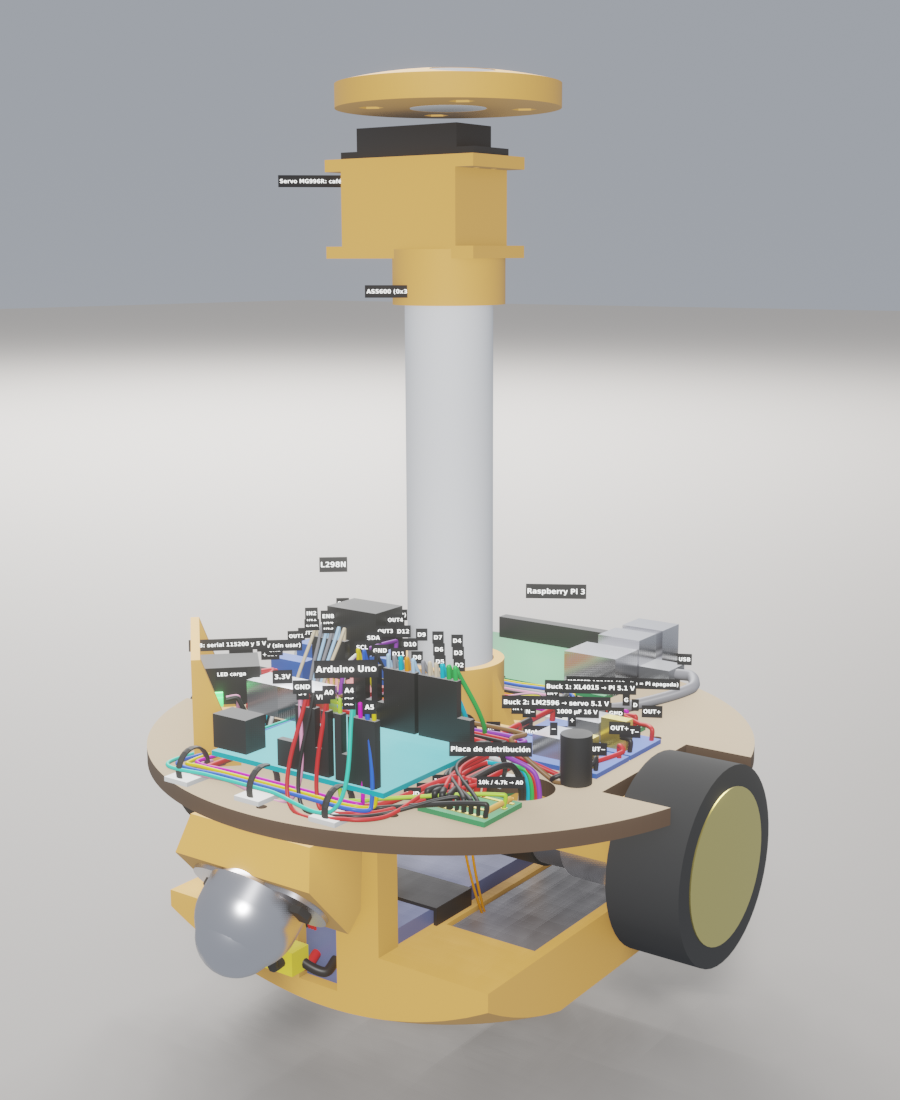
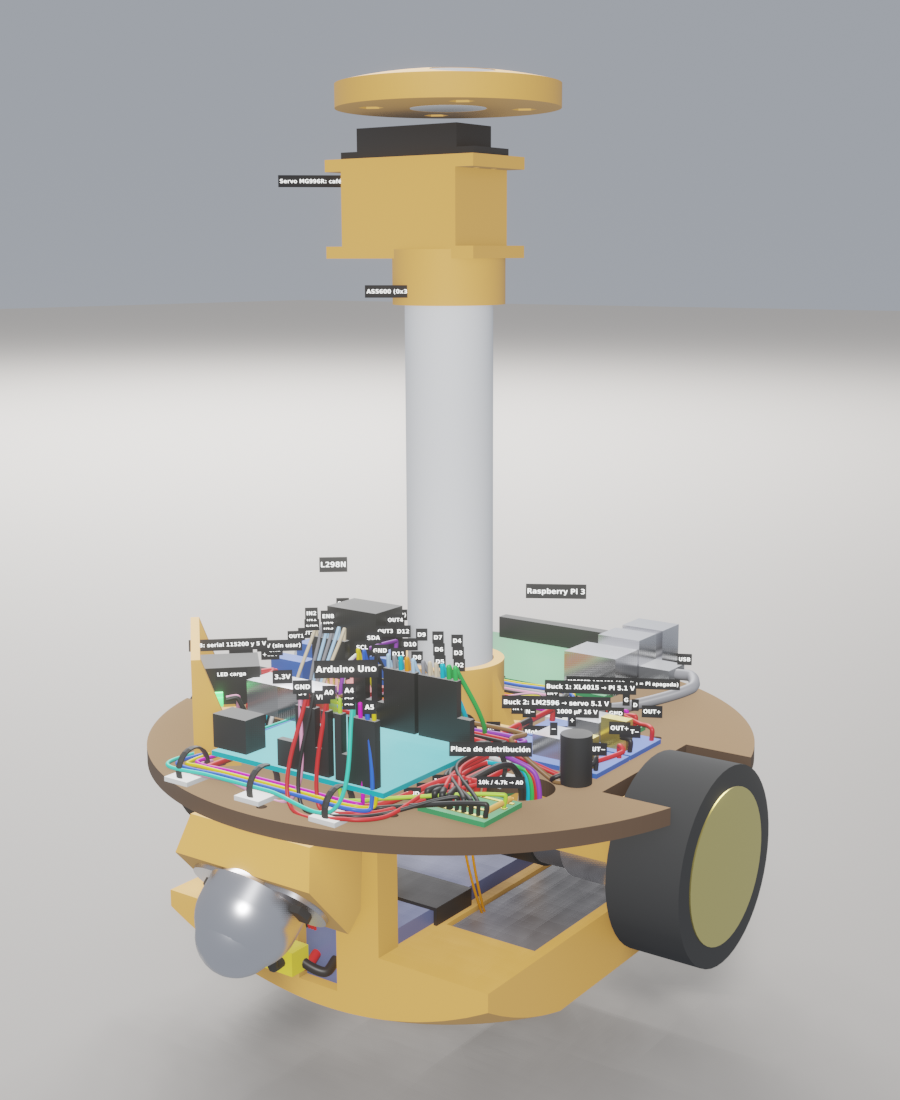
Blender: MDF in its real brown and viewport colours on every material
Claude-Session: https://claude.ai/code/session_017T23EvtQcXMZahTxybsatq

Changed region(s): [[0.1556, 0.6182, 0.84, 0.7727]]

diff --git a/cad/blender/animar.py b/cad/blender/animar.py
@@ -90,21 +90,22 @@ def mat(nombre, color, rug=0.4, metal=0.0, emision=None, fuerza=0.0):
     if emision:
         p.inputs["Emission"].default_value = (*emision, 1)
         p.inputs["Emission Strength"].default_value = fuerza
+    m.diffuse_color = (*color, 1)          # what the Solid viewport shows
     MATS[nombre] = m
     return m
 
 
 def mdf():
     """MDF: fibra café clara, mate, con grano fino de ruido."""
-    m = mat("MDF", (0.62, 0.47, 0.32), 0.85)
+    m = mat("MDF", (0.30, 0.17, 0.08), 0.85)
     n = m.node_tree.nodes
     bsdf = n["Principled BSDF"]
     ruido = n.new("ShaderNodeTexNoise")
     ruido.inputs["Scale"].default_value = 900.0
     ruido.inputs["Detail"].default_value = 8.0
     rampa = n.new("ShaderNodeValToRGB")
-    rampa.color_ramp.elements[0].color = (0.50, 0.36, 0.23, 1)
-    rampa.color_ramp.elements[1].color = (0.70, 0.55, 0.38, 1)
+    rampa.color_ramp.elements[0].color = (0.24, 0.13, 0.06, 1)   # linear: sRGB ~ (135, 100, 70)
+    rampa.color_ramp.elements[1].color = (0.36, 0.21, 0.10, 1)
     m.node_tree.links.new(ruido.outputs["Fac"], rampa.inputs["Fac"])
     m.node_tree.links.new(rampa.outputs["Color"], bsdf.inputs["Base Color"])
     return m
